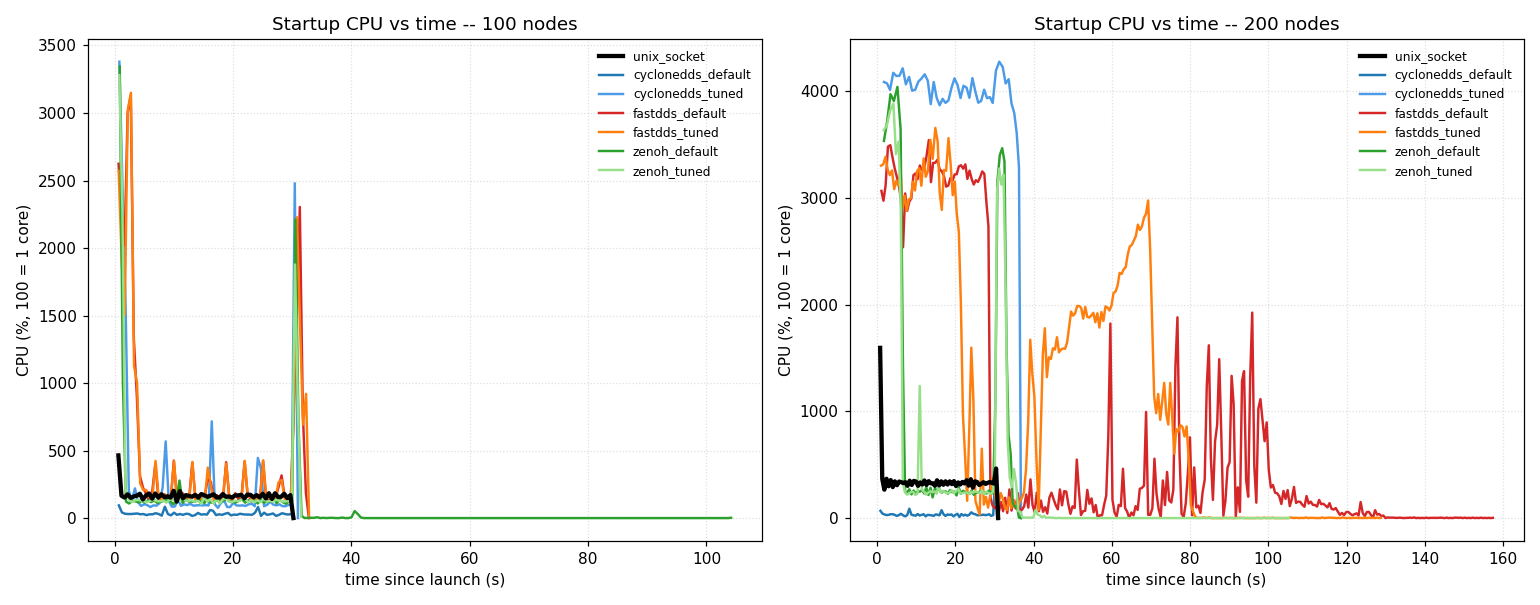
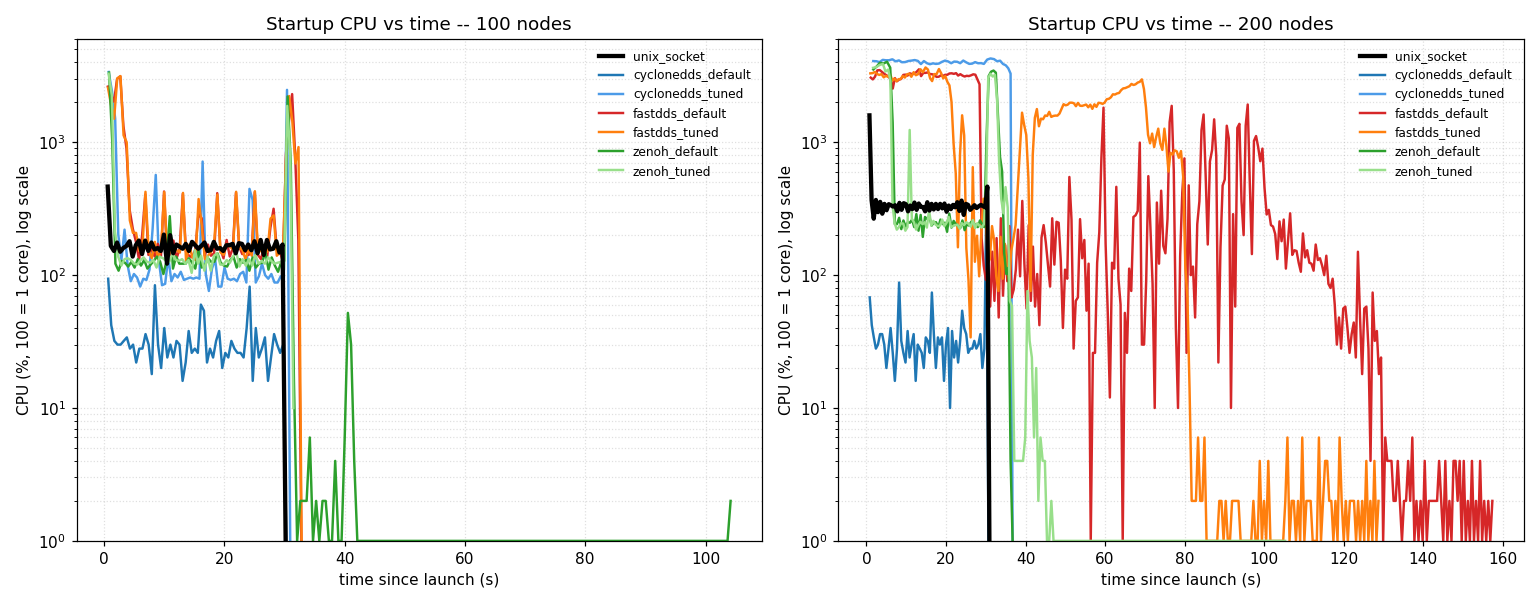
plot: use a log y-axis for the startup CPU-vs-time graph
The CPU range spans unix_socket's ~150-320% plateau to the DDS/Zenoh discovery
storms' ~4000% peaks. On a linear axis unix_socket is squashed near the origin
and the storms overlap in a single block. A log y-axis separates each RMW's
storm profile and decay (so the 'how long is the host saturated' reading is
legible) and matches the dashboard's CPU panel. CPU falls to 0 at the idle
tails, so values are floored at 1% to stay on the log axis.

diff --git a/scripts/plot.py b/scripts/plot.py
@@ -150,14 +150,19 @@ def plot_startup_cpu(data, variants, node_list, out):
             if not series:
                 continue
             xs = [s["t_s"] for s in series]
-            ys = [s["cpu_pct"] for s in series]
+            # log y-axis: the range spans unix_socket's ~150% plateau to the DDS
+            # storms' ~4000% peaks, and CPU hits 0 at the idle tails; floor at 1%
+            # so the tails don't fall off the log axis.
+            ys = [max(s["cpu_pct"], 1.0) for s in series]
             lw = 2.8 if v == "unix_socket" else 1.6
             z = 5 if v == "unix_socket" else 2
             ax.plot(xs, ys, lw=lw, color=COLORS.get(v), label=v, zorder=z)
         ax.set_title(f"Startup CPU vs time -- {n} nodes", fontsize=12)
         ax.set_xlabel("time since launch (s)")
-        ax.set_ylabel("CPU (%, 100 = 1 core)")
-        ax.grid(True, ls=":", alpha=0.4)
+        ax.set_ylabel("CPU (%, 100 = 1 core), log scale")
+        ax.set_yscale("log")
+        ax.set_ylim(1, 6000)
+        ax.grid(True, which="both", ls=":", alpha=0.4)
         ax.legend(fontsize=8, frameon=False)
     fig.tight_layout()
     os.makedirs(os.path.dirname(out) or ".", exist_ok=True)